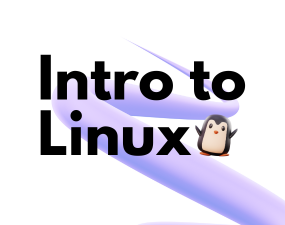
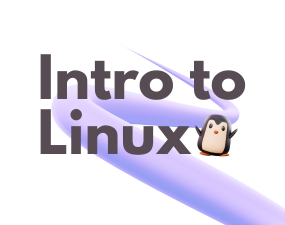
changed intro to linux vid thumbnail

Changed region(s): [[0.1404, 0.1867, 1.0, 1.0]]

diff --git a/ar/vids/index.html b/ar/vids/index.html
@@ -338,9 +338,9 @@
         <img
           alt=""
           
-            class="w-24 rounded-md sm:w-40" srcset="/ar/vids/intro-to-linux/thumb_hu338438c5a1d629a7987452c7675c4358_26600_160x120_fill_box_smart1_3.png
-            160w,/ar/vids/intro-to-linux/thumb_hu338438c5a1d629a7987452c7675c4358_26600_320x240_fill_box_smart1_3.png 2x"
-            src="/ar/vids/intro-to-linux/thumb_hu338438c5a1d629a7987452c7675c4358_26600_160x120_fill_box_smart1_3.png"
+            class="w-24 rounded-md sm:w-40" srcset="/ar/vids/intro-to-linux/thumb_hufe763fb4a9a39e28d6a3559183a9bb65_26310_160x120_fill_box_smart1_3.png
+            160w,/ar/vids/intro-to-linux/thumb_hufe763fb4a9a39e28d6a3559183a9bb65_26310_320x240_fill_box_smart1_3.png 2x"
+            src="/ar/vids/intro-to-linux/thumb_hufe763fb4a9a39e28d6a3559183a9bb65_26310_160x120_fill_box_smart1_3.png"
           
         />
       </a>

diff --git a/vids/index.html b/vids/index.html
@@ -335,9 +335,9 @@
         <img
           alt=""
           
-            class="w-24 rounded-md sm:w-40" srcset="/vids/intro-to-linux/thumb_hu338438c5a1d629a7987452c7675c4358_26600_160x120_fill_box_smart1_3.png
-            160w,/vids/intro-to-linux/thumb_hu338438c5a1d629a7987452c7675c4358_26600_320x240_fill_box_smart1_3.png 2x"
-            src="/vids/intro-to-linux/thumb_hu338438c5a1d629a7987452c7675c4358_26600_160x120_fill_box_smart1_3.png"
+            class="w-24 rounded-md sm:w-40" srcset="/vids/intro-to-linux/thumb_hufe763fb4a9a39e28d6a3559183a9bb65_26310_160x120_fill_box_smart1_3.png
+            160w,/vids/intro-to-linux/thumb_hufe763fb4a9a39e28d6a3559183a9bb65_26310_320x240_fill_box_smart1_3.png 2x"
+            src="/vids/intro-to-linux/thumb_hufe763fb4a9a39e28d6a3559183a9bb65_26310_160x120_fill_box_smart1_3.png"
           
         />
       </a>
